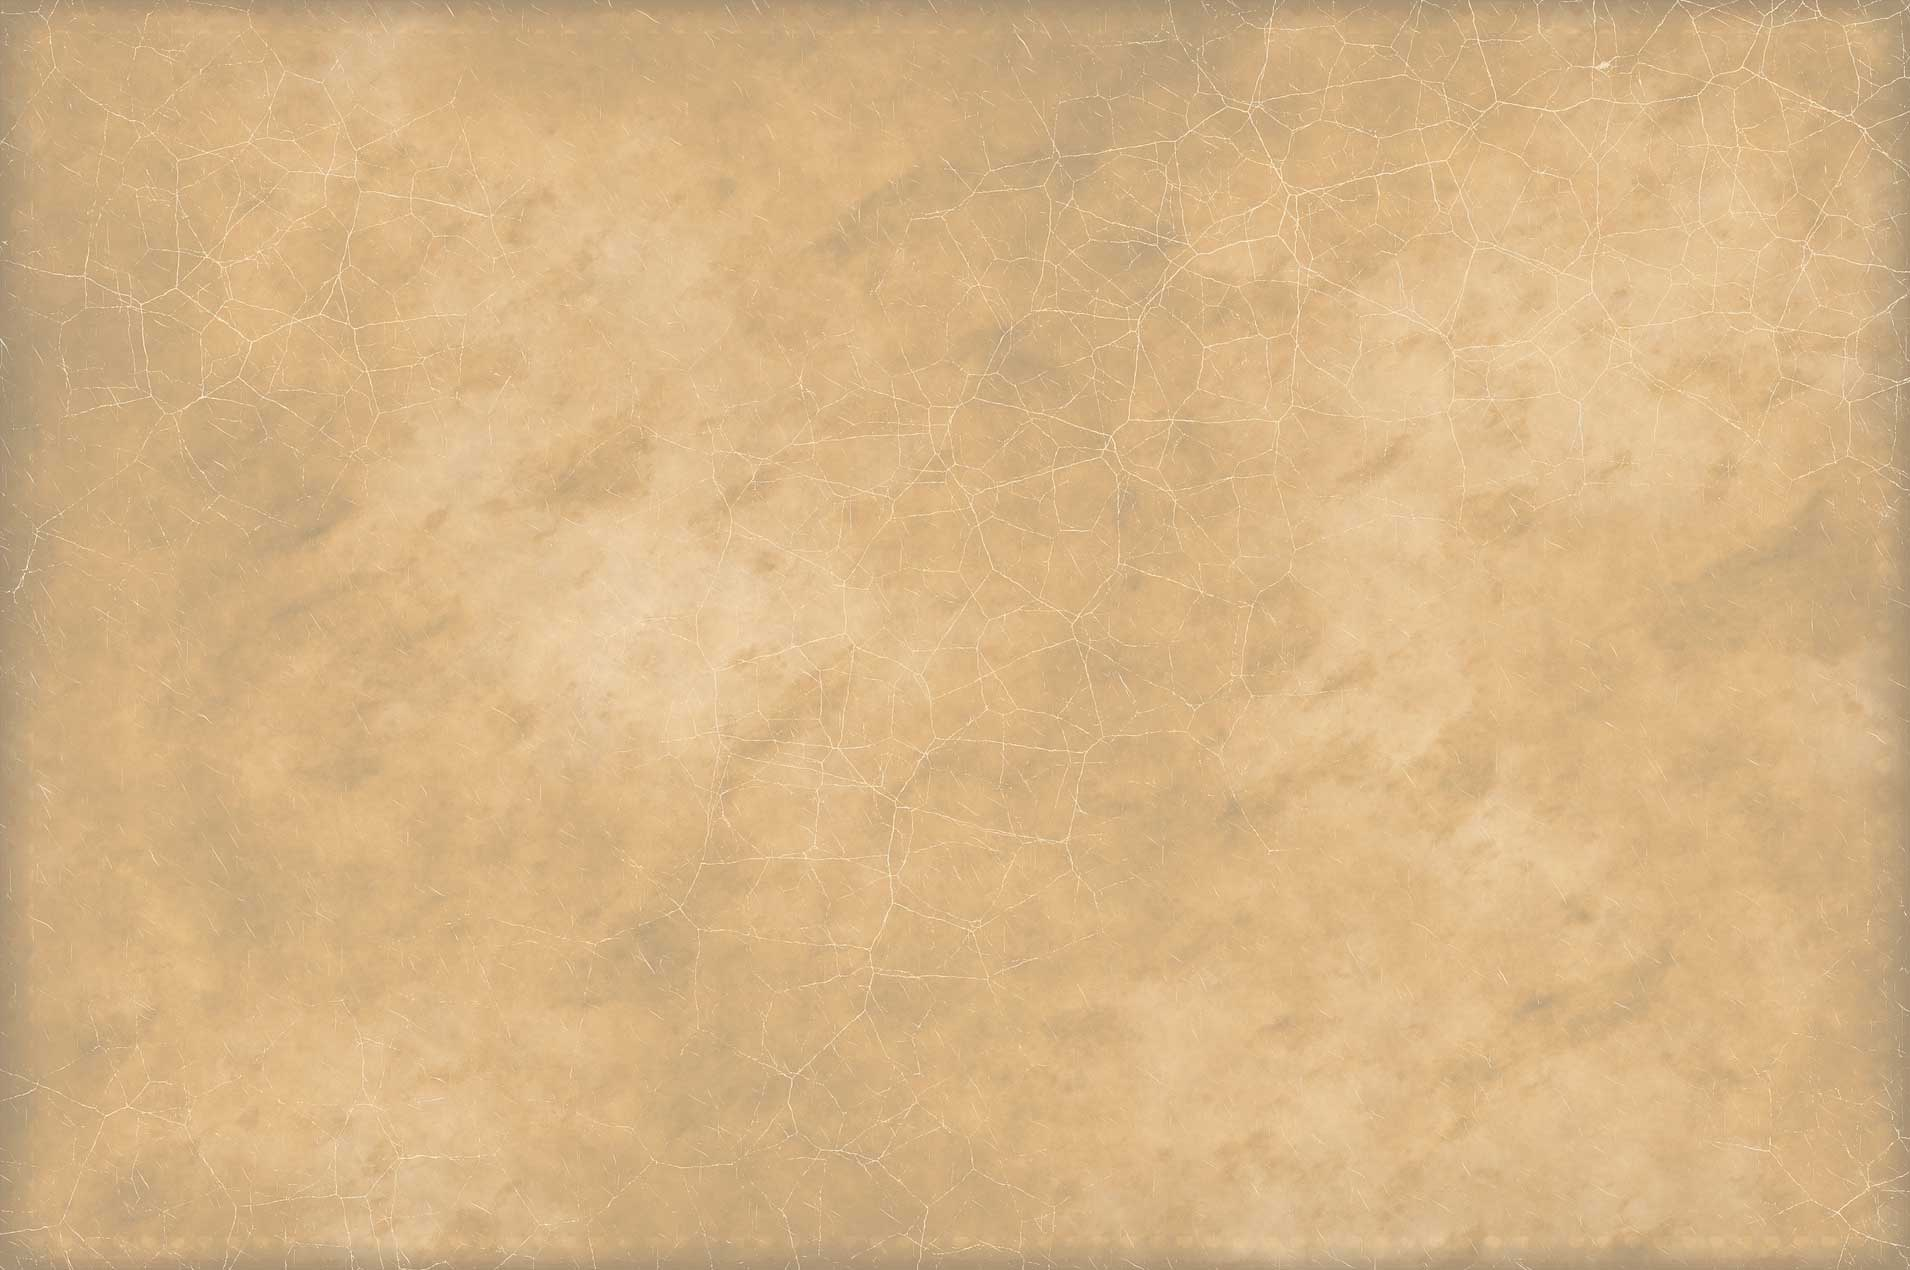
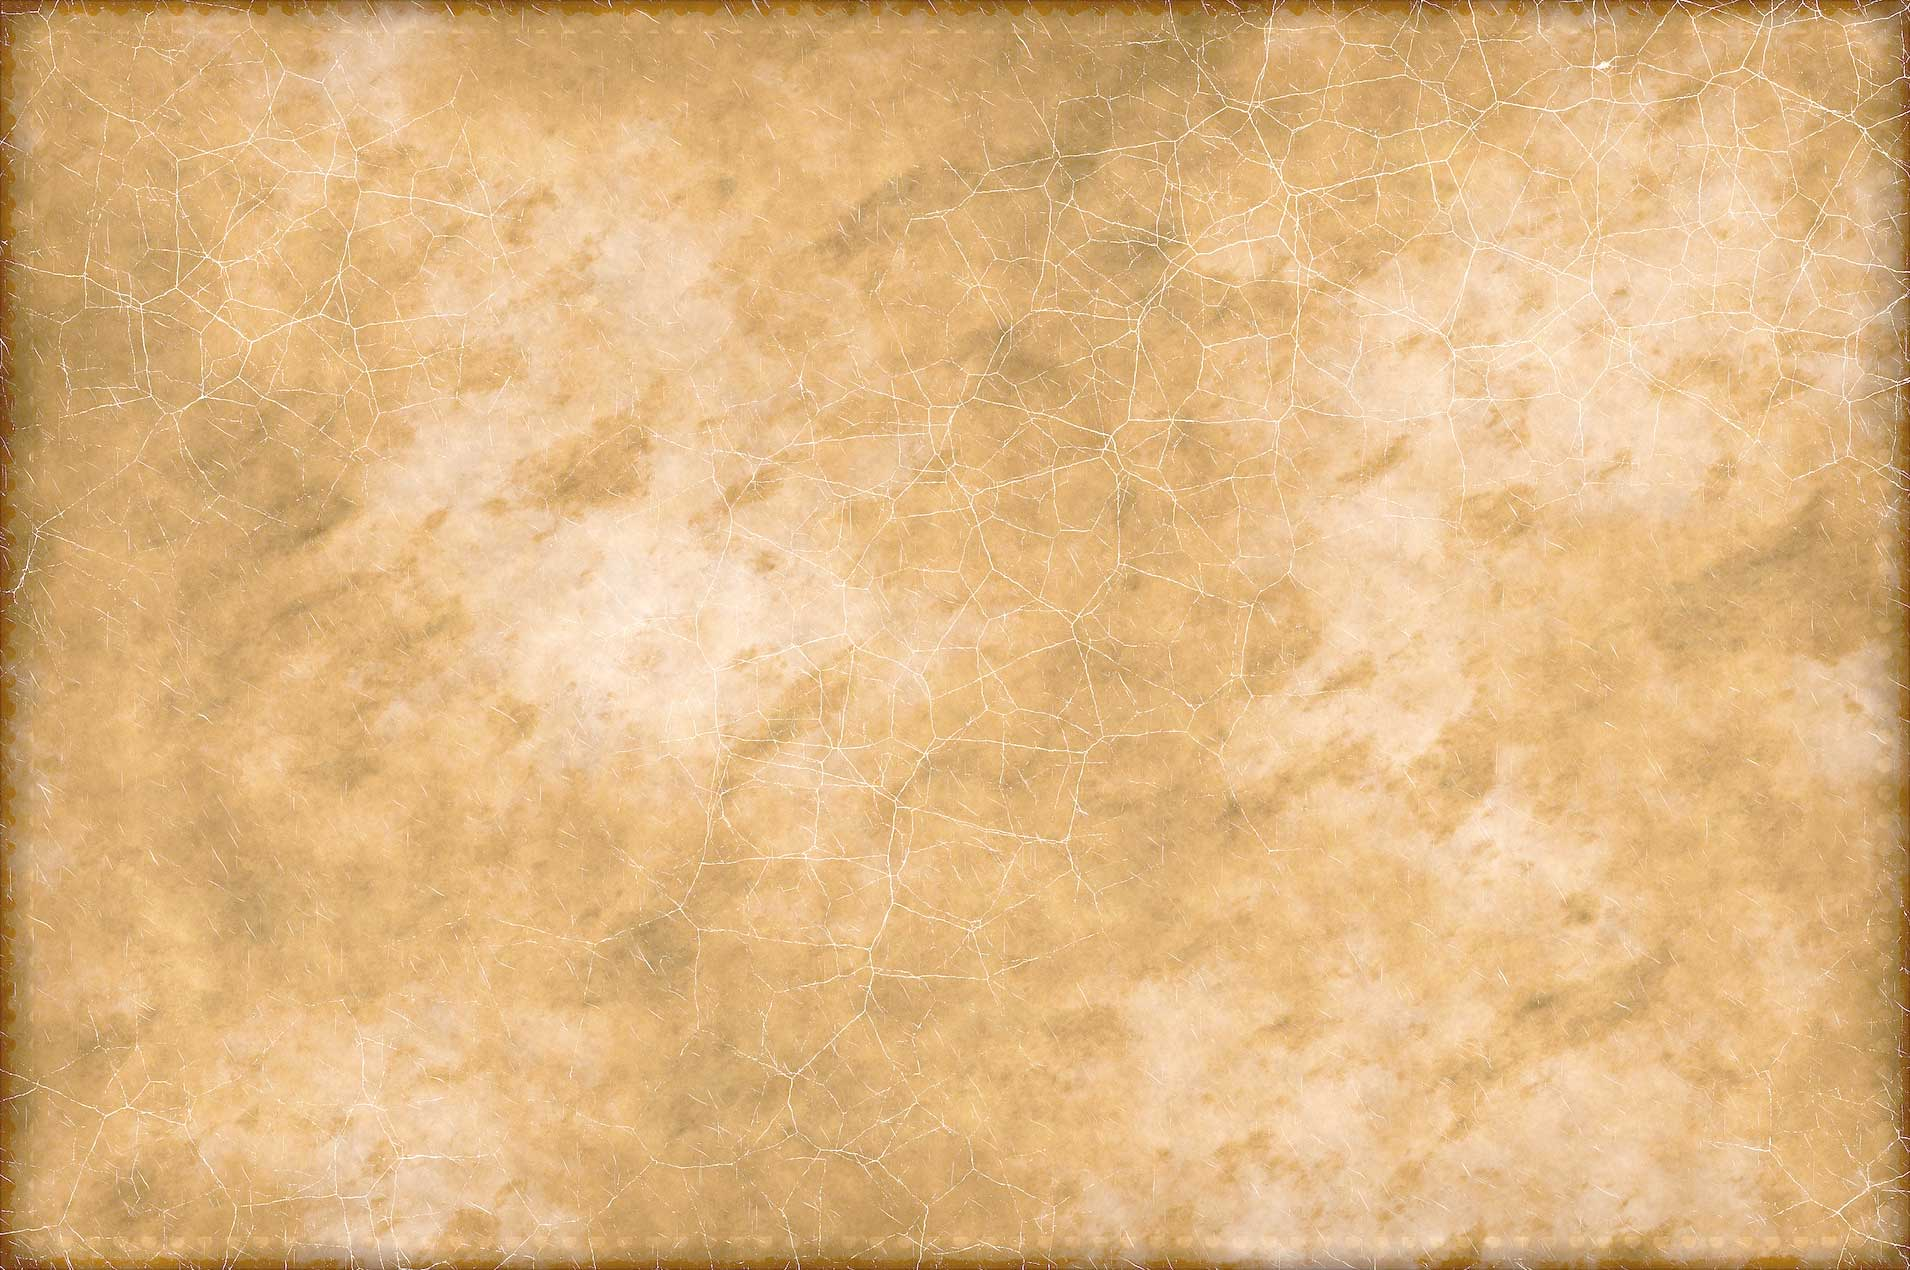
backgound

diff --git a/game-board/game-board.css b/game-board/game-board.css
@@ -34,7 +34,7 @@
     height: 400px;
     margin: 30px auto;
     z-index: -1;
-    background-color: rgb(185, 167, 133, 0.5);
+    /* background-color: rgb(185, 167, 133, 0.5); */
     box-sizing: content-box;
     border: 4px outset rgba(222, 184, 135, 0.7);
     box-shadow: 0 0 10px 5px rgba(100, 100, 80, 0.325);

diff --git a/game-board/index.html b/game-board/index.html
@@ -57,7 +57,7 @@
             
         <div id="grid">
             <h2 id="game-over">Game Over</h2>
-            <img src="../assets/paper-bg3.jpg" id="grid-background">
+            <img src="../assets/paper-bg3-lighter.jpg" id="grid-background">
         </div>
             
         <div id="tile-stack">

diff --git a/results/index.html b/results/index.html
@@ -69,7 +69,7 @@
 
         <div id="map-container">
             <div id="grid">
-                <img id="grid-background" src="../assets/paper-bg3.jpg"/>
+                <img id="grid-background" src="../assets/paper-bg3-lighter.jpg"/>
             </div>
         </div>
 
